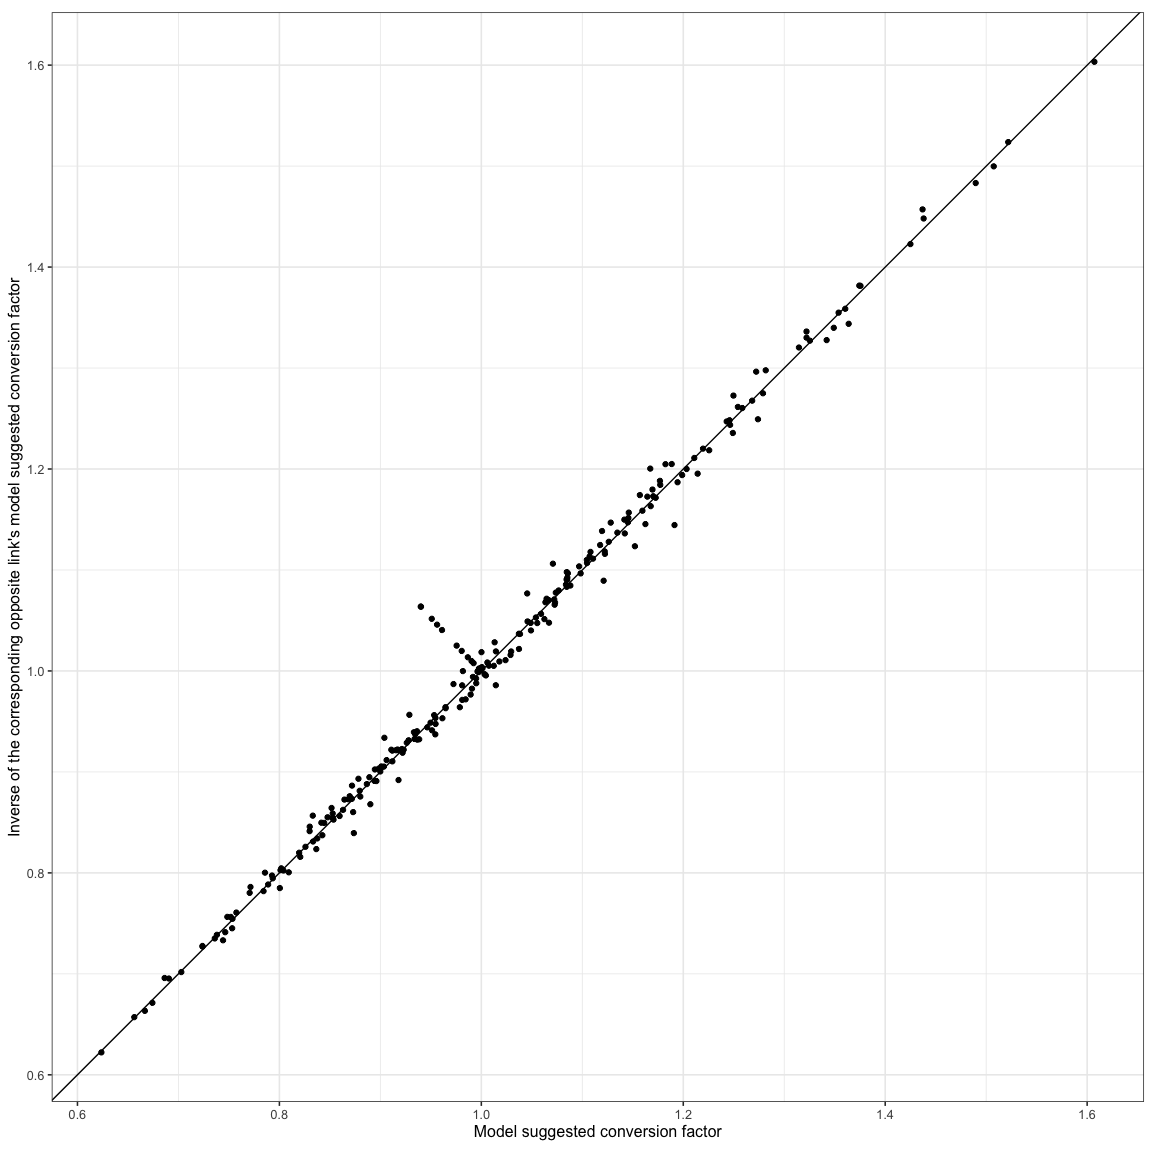
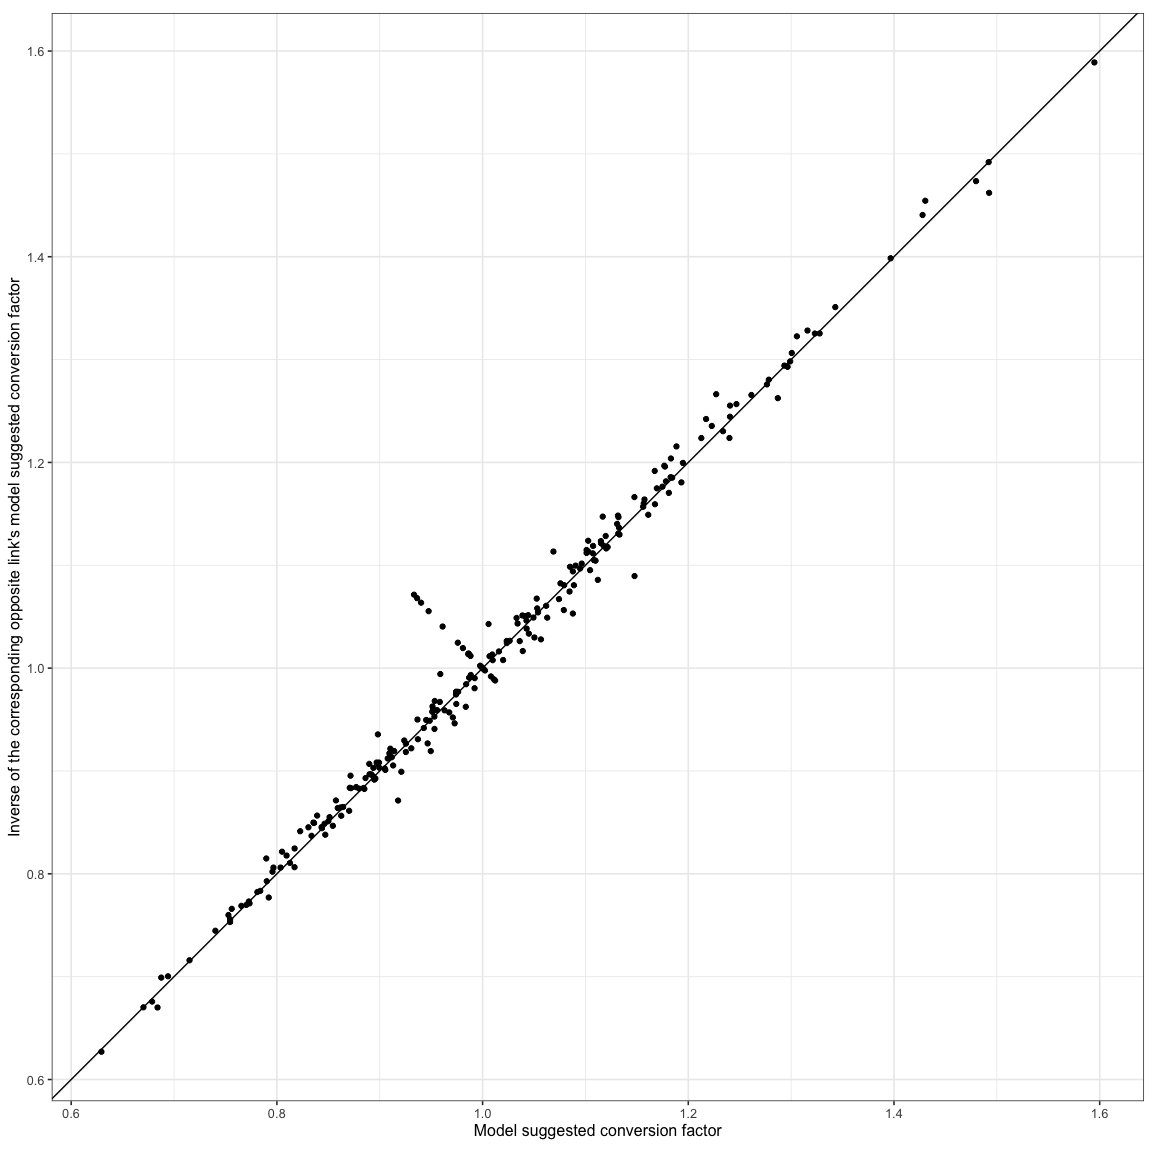
Added the simpler model stuff. Still WIP.

diff --git a/README.md b/README.md
@@ -186,9 +186,9 @@ If the earlier discussion about having the two links between a pair of
 leagues modelled as inverse of each other were true then we’d see
 diagonally opposite elements being reciprocals of each other, for eg. a
 transfer from Spain La Liga to the Scotland Premiership typically
-results in the VAEP/minute becoming 1.75 times or 175% and a transfer in
-the other direction see it become 0.57 times which is approximately =
-1/1.75 so the inverse relationship holds.
+results in the VAEP/minute becoming 1.77 times or 177% and a transfer in
+the other direction see it become 0.55 times which is approximately =
+1/1.77 so the inverse relationship holds.
 
 Here is a comparison of every conversion factor with the inverse of it’s
 corresponding opposite link -
@@ -205,6 +205,8 @@ observed factors.
 ![](README_files/figure-markdown_strict/edges_viz-1.png)
 
 ![](README_files/figure-markdown_strict/edges_deviation_viz-1.png)
+
+![](README_files/figure-markdown_strict/edges_deviation_viz_hist-1.png)
 
 Pairs of leagues which have seen lots of transfers between them have
 very similar values from the model and observation, which is a good
@@ -231,13 +233,13 @@ The differences are usually very low which means our model was able to
 arrive at a solution where all the links were consistent with each other
 and in terms of independence of the transfer chain between two leagues.
 
-## What Next
+## How To Use This
 
-First - this is a very limited model. It is useful but limited. It is
-limited because it models the VAEP conversion factor of players who
-*have* moved between leagues which may or may not be a good estimate for
-a random player moving between leagues. Players who *have* moved are not
-a random sample of players so it is a biased view.
+This is a very limited model. It is useful but limited. It is limited
+because it models the VAEP conversion factor of players who *have* moved
+between leagues which may or may not be a good estimate for a random
+player moving between leagues. Players who *have* moved are not a random
+sample of players so it is a biased view.
 
 It might also just be useful as a macro model and not useful to predict
 the VAEP we can expect from specific transfers. Remember we’re
@@ -255,3 +257,169 @@ I’ve been trying to model this difference too but no success yet. In
 good news though I also included inputs in this model to check if our
 assumption of a -&gt; b being similar to a -&gt; c -&gt; b was wrong but
 there is no indication for that either yet. You win some you lose some.
+
+## Another Simplified Model
+
+An easier model to calibrate would be where each league has a from
+conversion factor, for when the player transfers out of the league, and
+a to conversion factor, for when the player transfers to the league. The
+conversion factor for a transfer between those two leagues is a product
+of the two conversion factors.
+
+You can take logs and convert it to a linear equation, log(1/from league
+a factor) + log(to league b factor) = log(conversion factor), and then
+solve it as a linear regression. We could also try having just one
+factor for each league and using it and its inverse as a to and from but
+same logic as earlier, this will allow for an independent relationship
+between those two so we’ll keep them separate.
+
+An example of the dataset we’ll give to linear regression for our first
+example for a transfer between the EPL to the La Liga would look like
+this -
+
+<table style="width:100%;">
+<colgroup>
+<col style="width: 10%" />
+<col style="width: 12%" />
+<col style="width: 12%" />
+<col style="width: 12%" />
+<col style="width: 8%" />
+<col style="width: 10%" />
+<col style="width: 10%" />
+<col style="width: 10%" />
+<col style="width: 11%" />
+</colgroup>
+<thead>
+<tr class="header">
+<th style="text-align: right;">from_league_EPL</th>
+<th style="text-align: right;">from_league_LaLiga</th>
+<th style="text-align: right;">from_league_Ligue1</th>
+<th style="text-align: right;">from_league_SerieA</th>
+<th style="text-align: right;">to_league_EPL</th>
+<th style="text-align: right;">to_league_LaLiga</th>
+<th style="text-align: right;">to_league_Ligue1</th>
+<th style="text-align: right;">to_league_SerieA</th>
+<th style="text-align: right;">conversion_factor</th>
+</tr>
+</thead>
+<tbody>
+<tr class="odd">
+<td style="text-align: right;">-1</td>
+<td style="text-align: right;">0</td>
+<td style="text-align: right;">0</td>
+<td style="text-align: right;">0</td>
+<td style="text-align: right;">0</td>
+<td style="text-align: right;">1</td>
+<td style="text-align: right;">0</td>
+<td style="text-align: right;">0</td>
+<td style="text-align: right;">1.2</td>
+</tr>
+</tbody>
+</table>
+
+There would again be an extra weight to take into account the recency of
+the transfer, where we give more importance to recent tranfers and less
+importance to older ones. Each transfer is now fed independently into
+this model, as compared to the earlier model where we sent medians, so
+we don’t need to explicitly incorporate the count of transfers between
+leagues.
+
+One problem that there is though that you can’t take logs of negative
+values but we have very very few negative observed conversion factors (
+i.e. cases where overall VAEP was negative ) so we’ll just ignore them
+for now.
+
+Here are what the results for this simple model look like. They are
+quite similar to our earlier model and probably worth it for the ease of
+calibrating this.
+
+![](README_files/figure-markdown_strict/graph_viz-1.png)
+
+So now that we have a to factor and a from factor for each league, as
+compared to have a separate relationship between each pair of leagues,
+we need to look at this matrix a little differently. The values along
+the rows are representative of the from factor, and the values along the
+columns representative of the from factor. Scotland’s Premiership and
+Russia’s Premier League are interesting because its values along its
+rows suggest that most players that transfer from that league to other
+leagues have a &lt;1 conversion factor but players coming to those
+leagues from most other leagues also have a &lt;1 conversion factor.
+This means that these leagues are probably tough to play in even if
+players are coming from other leagues considered higher quality leagues.
+
+![](README_files/figure-markdown_strict/edges_viz-1.png)
+
+![](README_files/figure-markdown_strict/graph_length_2_viz-1.png)
+
+![](README_files/figure-markdown_strict/graph_length_3_viz-1.png)
+
+## Adding Other Factors to the Simple Model
+
+Now that we have a simple model which is easy to calibrate, let us see
+if we can add more granularity to it. This is again with a view to
+bridging the variance of the actual conversion values compared to the
+overall prediction between a pair of leagues.
+
+This hasn’t been very successful though so don’t keep your hopes up for
+the rest of the article.
+
+Let’s add variables to this dataset which captures the teams which works
+the same way as the league variables, a -1 in the from\_team column and
+a +1 in the to\_team column and try and regress this. The coefficients
+aren’t individually as strong a predictor anymore though because there
+are a lot more variables that the model is trying to split the effect on
+the ouput amongst many more input variables.
+
+Here is what the league comparison looks like with this model.
+
+![](README_files/figure-markdown_strict/graph_viz_simple_with_teams-1.png)
+
+That isn’t very good. Sigh.
+
+I tried another thing - holding the the league level coefficients
+constant from our simplest model and letting the team level variables
+account only for the difference between each individual transfer’s
+conversion factor and the league pair suggested conversion factor. This
+is mixed effects model territory.
+
+The relationship between leagues would remain the same as the simple
+model so the coefficients for the teams is our focus here.
+
+Based on the visual, there isn’t a large improvement in the predictions
+though. The model’s predictions of the coefficients are also often not
+very confident but let us take a look at them anyway. Now is a good time
+for us to drop interpreting these coefficients as an indicator of league
+or team strength and go back to seeing them as what they should be seen
+as - an indicator of how well players perform after transfers. In this
+case, since we have modelled the difference from the league based
+predictions, this is really a measure of how well the players do after
+transfers after adjusting for the change of league. Amongst teams that
+have had at least 5 transfers to and from them, here is how the
+coefficients look -
+
+![](README_files/figure-markdown_strict/calculating_deviations_simple_with_teams-1.png)
+
+![](README_files/figure-markdown_strict/team_order_simple_with_teams_fixed_leagues_minus_league_effect-1.png)
+
+I can think of some interpretations for this plot:
+
+-   teams on the bottom right are likely coached very well since players
+    coming to them play much better than their previous teams while
+    players players leaving them typically see their output drop after
+    adjusting for league change
+-   teams on the top left are the opposite - likely coached very poorly
+-   teams on the top right are teams that typically get players on their
+    way up, they typically see players improve when they come to the
+    team and when they leave the team
+-   teams on the bottom left are teams that typically get players on
+    their way down
+
+Som of the names make sense against this description but maybe not all
+of them. That said, the model is again not very confident about most of
+the coefficients and therefore you should expect a large case to case
+variance around this prediction, which is what the earlier plot of the
+prediction vs. actual conversions was also suggesting.
+
+## Get in touch
+
+\[Find me on Twitter, @thecomeonman\](twitter.com/thecomeonman)
